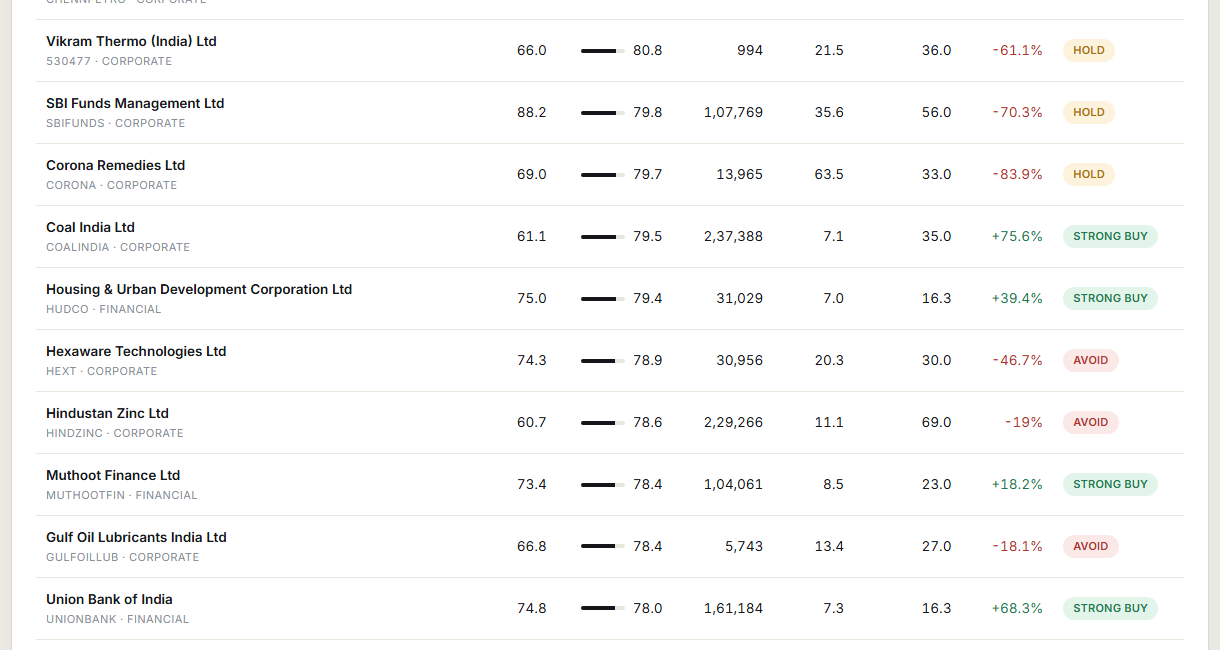
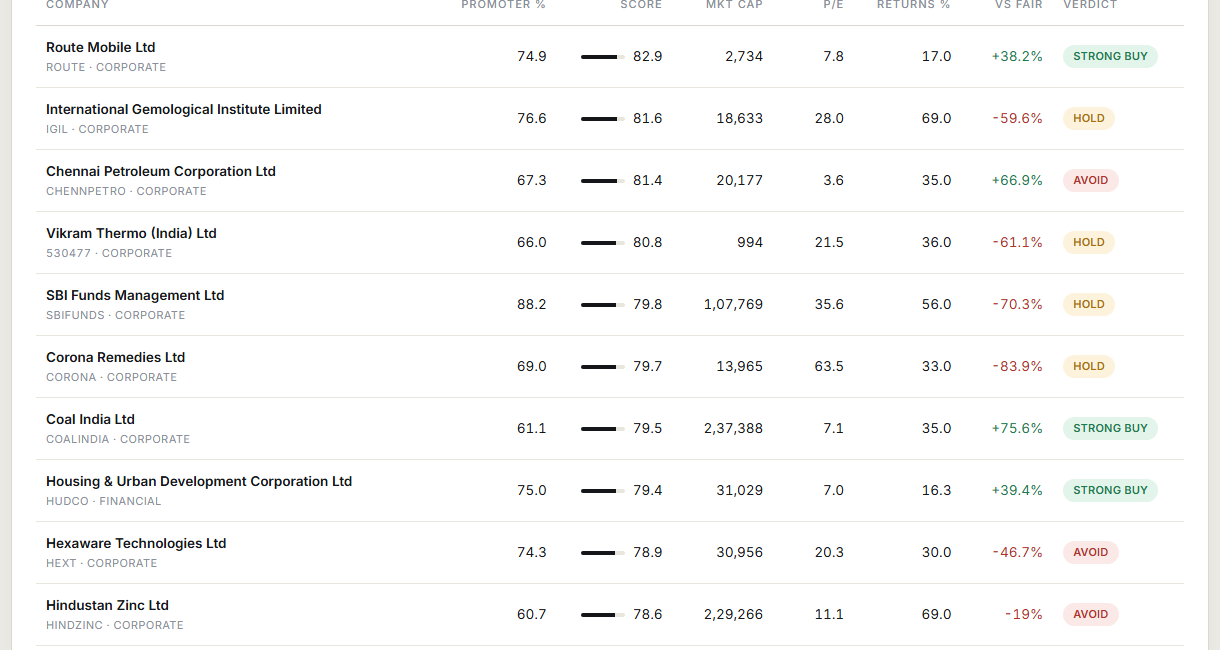
Add a stats command so the published figures cannot rot
README numbers went stale within a day because the crawl is still running.
`python -m promoterpro stats` prints coverage and the verdict distribution in
one command, so the docs can be refreshed instead of guessed. Screenshots and
the dated distribution snapshot now match the live database.

diff --git a/promoterpro/__main__.py b/promoterpro/__main__.py
@@ -3,6 +3,7 @@
     python -m promoterpro universe            # index every listed company
     python -m promoterpro scrape --limit 300  # pull fundamentals pages
     python -m promoterpro report              # top promoter-led ideas in the terminal
+    python -m promoterpro stats               # crawl coverage + verdict distribution
     python -m promoterpro serve --port 8757   # dashboard
 """
 from __future__ import annotations
@@ -25,6 +26,7 @@ def main(argv=None) -> int:
     sub.add_parser("report")
     sub.add_parser("rebuild")
     sub.add_parser("reparse")
+    sub.add_parser("stats")
 
     sv = sub.add_parser("serve")
     sv.add_argument("--port", type=int, default=8757)
@@ -63,6 +65,23 @@ def main(argv=None) -> int:
     if args.cmd == "rebuild":
         rows = runner.refresh_scores()
         print(f"scored {len(rows)} companies")
+        return 0
+
+    if args.cmd == "stats":
+        c = store.counts()
+        rows = runner.refresh_scores()
+        gate = [r for r in rows
+                if (r["metrics"].get("promoter_pct") or 0) >= 60
+                and (r["metrics"].get("market_cap") or 0) >= 500]
+        dist = {}
+        for r in gate:
+            dist[r["verdict"]] = dist.get(r["verdict"], 0) + 1
+        order = ("STRONG BUY", "BUY", "HOLD", "AVOID")
+        print(f"universe {c['total']} | read {c['ok']} | failed {c['failed']} | pending {c['pending']}")
+        print(f"gate: promoter >= 60% and market cap >= Rs 500 Cr -> {len(gate)} companies")
+        print("verdicts: " + " | ".join(f"{k} {dist[k]}" for k in order if k in dist))
+        buys = [r["name"] for r in gate if r["verdict"] in ("STRONG BUY", "BUY")]
+        print("buys: " + ", ".join(str(b) for b in buys))
         return 0
 
     if args.cmd == "report":

diff --git a/README.md b/README.md
@@ -14,7 +14,7 @@ So the tool starts there, then refuses to be impressed by a single good year.
 
 ## What it does
 
-- **Screens the whole exchange.** 7,633 listed symbols indexed, 2,700+ company pages read so far: balance sheet, profit & loss, cash flow, ratios and the quarterly shareholding table.
+- **Screens the whole exchange.** All 7,633 listed symbols indexed; the crawl works through company pages one at a time and is resumable, so the number read keeps climbing. `python -m promoterpro stats` prints where it stands. Each page gives balance sheet, profit & loss, cash flow, ratios and the quarterly shareholding table.
 - **Scores six weighted pillars** — promoter conviction, balance sheet, profitability, growth, cash generation, valuation — out of 100, with a confidence figure that drops when a pillar has no data instead of quietly re-weighting it away.
 - **Vetoes, not just grades.** Hard red flags (pledging, promoter selling, chronic losses, a stale or implausible multiple, a cycle-peak earnings year) force `AVOID` no matter how good the score looks.
 - **Prices the business, then judges the price.** A required-return hurdle built from a 10-year G-Sec plus an equity premium, adjusted for through-cycle returns, growth, leverage and owner stake, gives a justified P/E. For lenders it switches to a clamped Gordon P/B. A verdict can never contradict the valuation column it prints — an expensive good business is capped to `HOLD`.
@@ -43,7 +43,7 @@ Every row opens a drawer with the full arithmetic, not just a verdict:
 | any severe red flag | `AVOID` | overrides the score |
 | valuation pillar < 35 **or** 40%+ above fair value | capped to `HOLD` | overrides `BUY` |
 
-Current distribution across 197 companies with promoter ≥ 60% and market cap ≥ ₹500 Cr: **5 STRONG BUY · 5 BUY · 83 HOLD · 104 AVOID.** Most businesses fail the price test, which is the point.
+Snapshot of 27 Nov 2026, across the 205 companies then passing the gate (promoter ≥ 60%, market cap ≥ ₹500 Cr): **5 STRONG BUY · 5 BUY · 84 HOLD · 111 AVOID.** Most businesses fail the price test, which is the point. Re-run `python -m promoterpro stats` for the current numbers.
 
 ## Quickstart
 
@@ -56,6 +56,7 @@ cd promoter-pro
 python -m promoterpro universe          # index every listed symbol
 python -m promoterpro scrape            # read company pages, resumable
 python -m promoterpro report            # top promoter-led ideas in the terminal
+python -m promoterpro stats             # pages read so far + verdict distribution
 python -m promoterpro serve --port 8757 # dashboard at http://127.0.0.1:8757/
 ```
 
